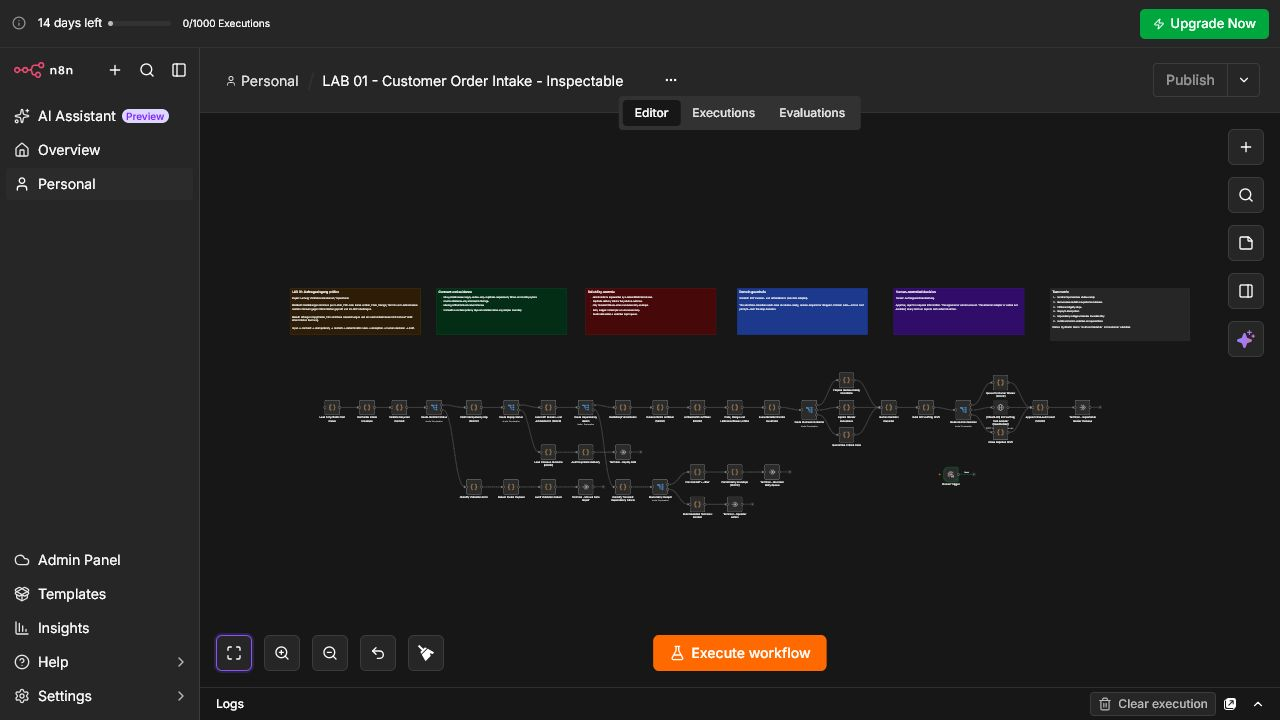
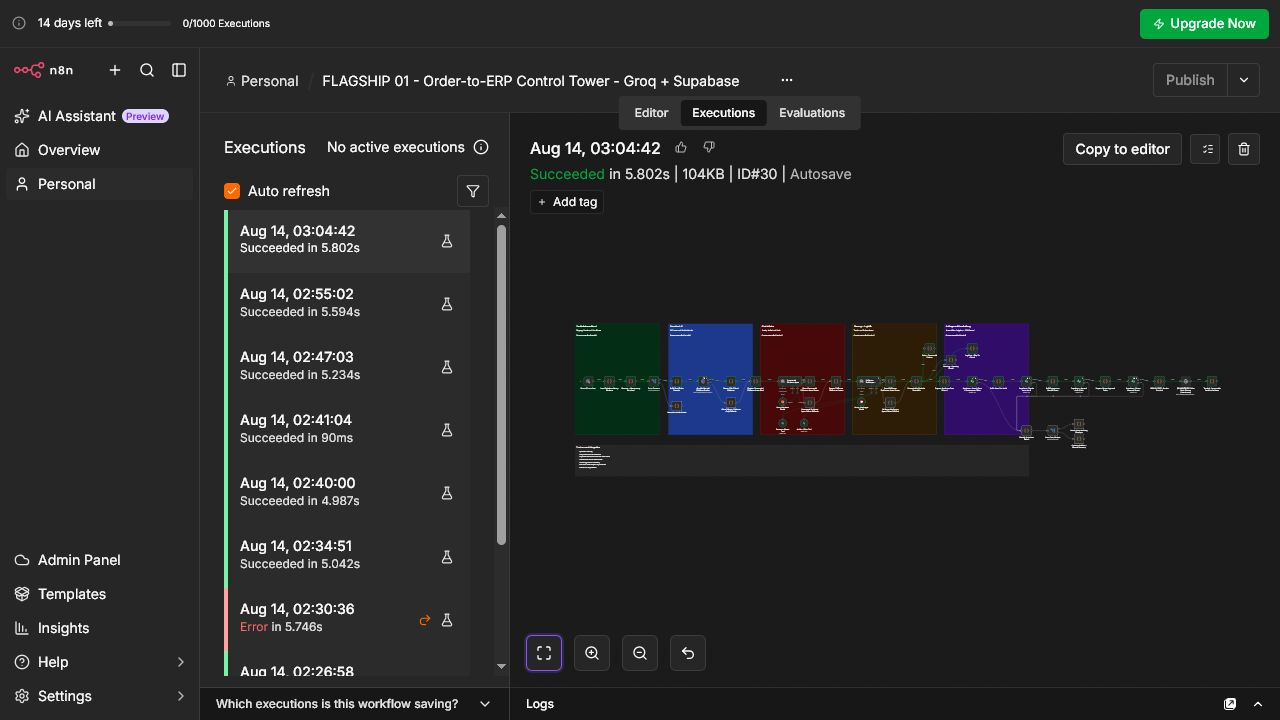
fix: verify flagship cloud integrations

diff --git a/docs/verification/N8N_EXECUTION_EVIDENCE.md b/docs/verification/N8N_EXECUTION_EVIDENCE.md
@@ -2,46 +2,53 @@
 
 Date: 2026-08-14
 
-Result: **PASS — test-only, unpublished and inspectable**
+Result: **PASS - synthetic test-account integrations, unpublished and inspectable**
 
-The ten previously created Personal-project workflows were upgraded in place from the four-node proof to the detailed versioned exports. No workflow was deleted and no duplicate workflow was created.
+## Flagship cloud executions
 
-## Imported and executed
+| Control tower | Cloud execution | Result | Canvas | Human boundary |
+| --- | --- | --- | --- | --- |
+| Order-to-ERP Control Tower | `#30` | Succeeded in 5.802 s | 46 nodes, 5 department lanes, Groq multimodal reader, 2 Groq agents, 2 Supabase master-data tools | One pending sales approval; ERP adapter disabled |
+| Service Incident Command | `#31` | Succeeded in 8.383 s | 47 nodes, 5 department lanes, Groq multimodal reader, 2 Groq agents, installed-base and error-code tools | One pending service-lead approval; ticket adapter disabled |
+| Procure-to-Pay Exception Control | `#32` | Succeeded in 6.629 s | 48 nodes, 5 department lanes, Groq multimodal reader, 2 Groq agents, supplier/PO/goods-receipt tools | Two pending approvals; accounting/payment adapter disabled |
 
-1. `LAB 01 - Customer Order Intake - Inspectable`
-2. `LAB 02 - Machine Service Triage - Inspectable`
-3. `LAB 03 - Spare Parts Inquiry - Inspectable`
-4. `LAB 04 - Lastenheft Delta Check - Inspectable`
-5. `LAB 05 - Invoice / PO Matching - Inspectable`
-6. `LAB 06 - RFQ Prequalification - Inspectable`
-7. `LAB 07 - Quality Complaint / 8D Preparation - Inspectable`
-8. `LAB 08 - Supplier Document Control - Inspectable`
-9. `LAB 09 - Maintenance Report → Actions - Inspectable`
-10. `LAB 10 - Trade Fair Lead Processing - Inspectable`
+Every run used the synthetic focus case shown in the public demo. The AI steps extracted or challenged evidence; deterministic code retained control of price, safety, bank-data and release decisions.
 
-## Observed execution
+## Supabase test-account proof
 
-For every workflow, Browser verification observed:
+Immediately after the three successful runs, a scoped query over the three synthetic correlation IDs returned:
 
-- 40 operational canvas nodes and 6 explanatory Sticky Notes;
-- six input items emitted from the Manual Trigger;
-- an invalid-contract route ending in `Terminal - Manual Data Repair`;
-- a duplicate route ending in `Terminal - Replay Safe`;
-- a transient dependency route ending in `Terminal - Bounded Retry Queue`;
-- happy, recoverable-deviation and critical-stop items passing through domain-specific deterministic guardrails;
-- three domain items reaching `Human Decision Required` and a draft-only review package;
-- successful manual execution;
-- a visibly disabled HTTP target adapter with no credential attached;
-- no publish or activation action;
-- zero production executions and zero external writes.
+| Table | Rows |
+| --- | ---: |
+| `industrial_lab_cases` | 3 |
+| `industrial_lab_agent_runs` | 3 |
+| `industrial_lab_events` | 3 |
+| `industrial_lab_approvals` | 4 |
 
-This execution proves the observed synthetic paths in the current n8n test project. It does not prove a real ERP, CRM, QMS, DMS, CMMS or ticket integration.
+The rows are synthetic audit evidence only. Master data includes the synthetic customer/article, installed-base/error-code and supplier/PO/goods-receipt records required by the demos.
+
+## Reliability boundaries observed
+
+- Invalid intake has an explicit quarantine route.
+- Multimodal and agent failures have evidence-only fallbacks.
+- Case creation is the idempotency boundary.
+- Supabase failures route through classified, bounded retry handling and then an operator incident.
+- Every material business result enters a human review queue.
+- ERP, service-ticket and accounting target adapters are visibly disabled.
+- The workflows remain unpublished and performed no production-system write.
+- Exported JSON is sanitized and contains no credential reference.
+
+## Remaining seven workflows
+
+The other seven lab workflows remain functional deterministic prototypes with six executable synthetic routes each: happy path, recoverable exception, critical stop, invalid contract, replay-safe duplicate and bounded dependency retry. They remain deliberately lighter than the three flagships.
+
+The previous cloud versions were not deleted. Order-to-ERP was upgraded in place; the Service and Procure-to-Pay flagships were created as separate iterations so the earlier prototypes remain recoverable.
 
 ## Visual evidence
 
-- [`workflow-inventory-10-inspectable.png`](../screenshots/n8n/workflow-inventory-10-inspectable.png)
 - [`customer-order-intake-inspectable-executed.png`](../screenshots/n8n/customer-order-intake-inspectable-executed.png)
 - [`machine-service-triage-inspectable-executed.png`](../screenshots/n8n/machine-service-triage-inspectable-executed.png)
 - [`invoice-po-matching-inspectable-executed.png`](../screenshots/n8n/invoice-po-matching-inspectable-executed.png)
+- [`workflow-inventory-10-inspectable.png`](../screenshots/n8n/workflow-inventory-10-inspectable.png)
 
-Cloud editor URLs are kept in the private control-repository handoff rather than in this public repository.
+Cloud editor URLs are recorded only in the private control-repository handoff.
